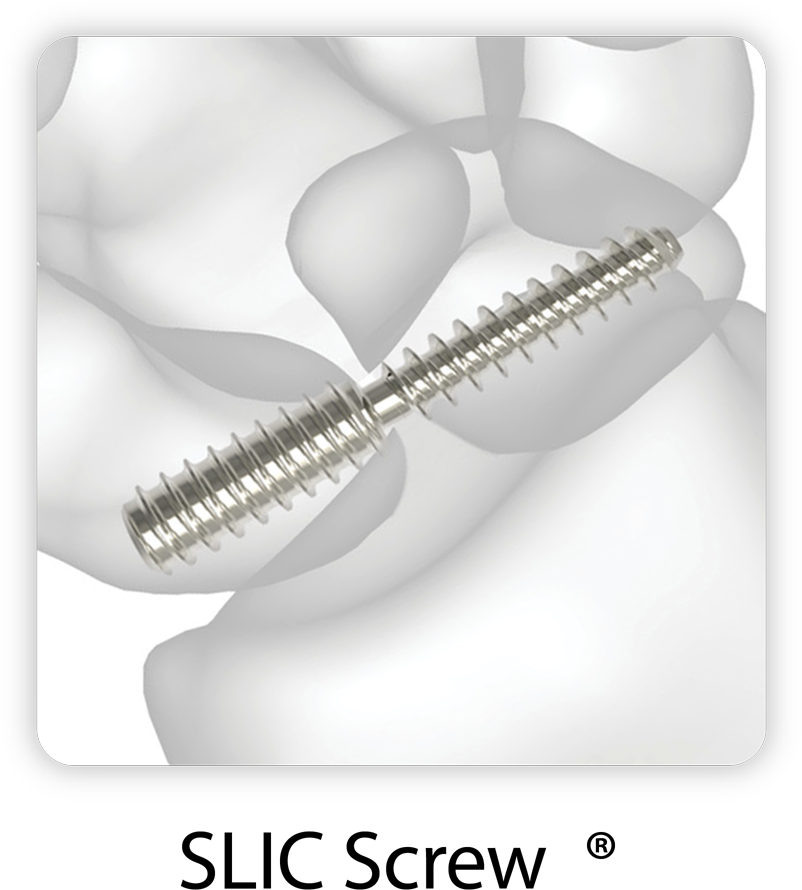
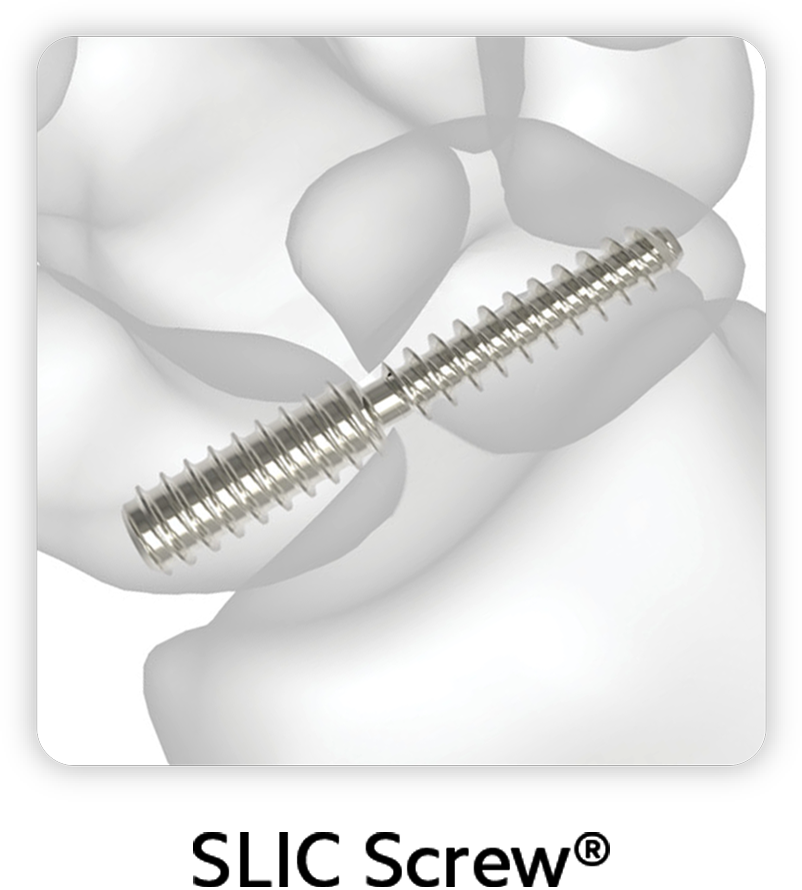
Changed SLIC_Icon per client request. Fixed glitch where left and right nav buttons displayed improperly.

Changed region(s): [[0.2182, 0.9101, 0.7793, 1.0]]

diff --git a/www/slicIndex.html b/www/slicIndex.html
@@ -290,7 +290,7 @@ button,
 .tangible,
 .active,
 .icon,
-#footer #prev-icon,
+#footer #	,
 #footer #next-icon,
 .media-icon,
 .sound .media-icon,
@@ -313,8 +313,6 @@ button,
 }
 .tangible,
 .icon,
-#footer #prev-icon,
-#footer #next-icon,
 .media-icon,
 .sound .media-icon,
 #play-icon,
@@ -765,9 +763,11 @@ span
 }
 #footer #next-icon {
   background-image: url("assets/images/next-icon.svg");
+  background-color: transparent;
 }
 #footer #prev-icon {
   background-image: url("assets/images/prev-icon.svg");
+  background-color: transparent;
 }
 .first #prev-icon {
   visibility: hidden;

diff --git a/www/index.css b/www/index.css
@@ -230,8 +230,6 @@ button,
 }
 .tangible,
 .icon,
-#footer #prev-icon,
-#footer #next-icon,
 .media-icon,
 .sound .media-icon,
 #play-icon,
@@ -682,9 +680,11 @@ span
 }
 #footer #next-icon {
   background-image: url("assets/images/next-icon.svg");
+  background-color: transparent;
 }
 #footer #prev-icon {
   background-image: url("assets/images/prev-icon.svg");
+  background-color: transparent;
 }
 .first #prev-icon {
   visibility: hidden;
